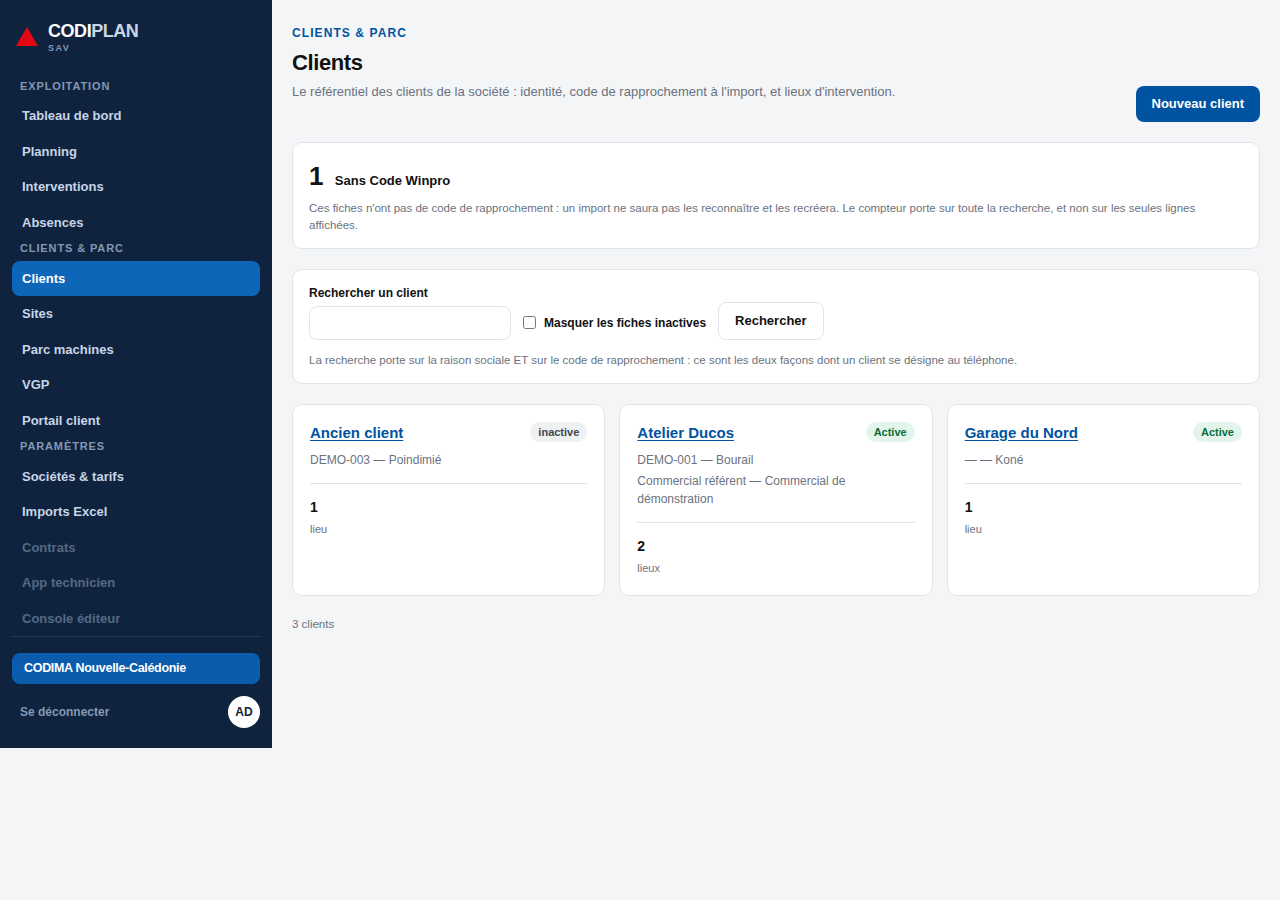
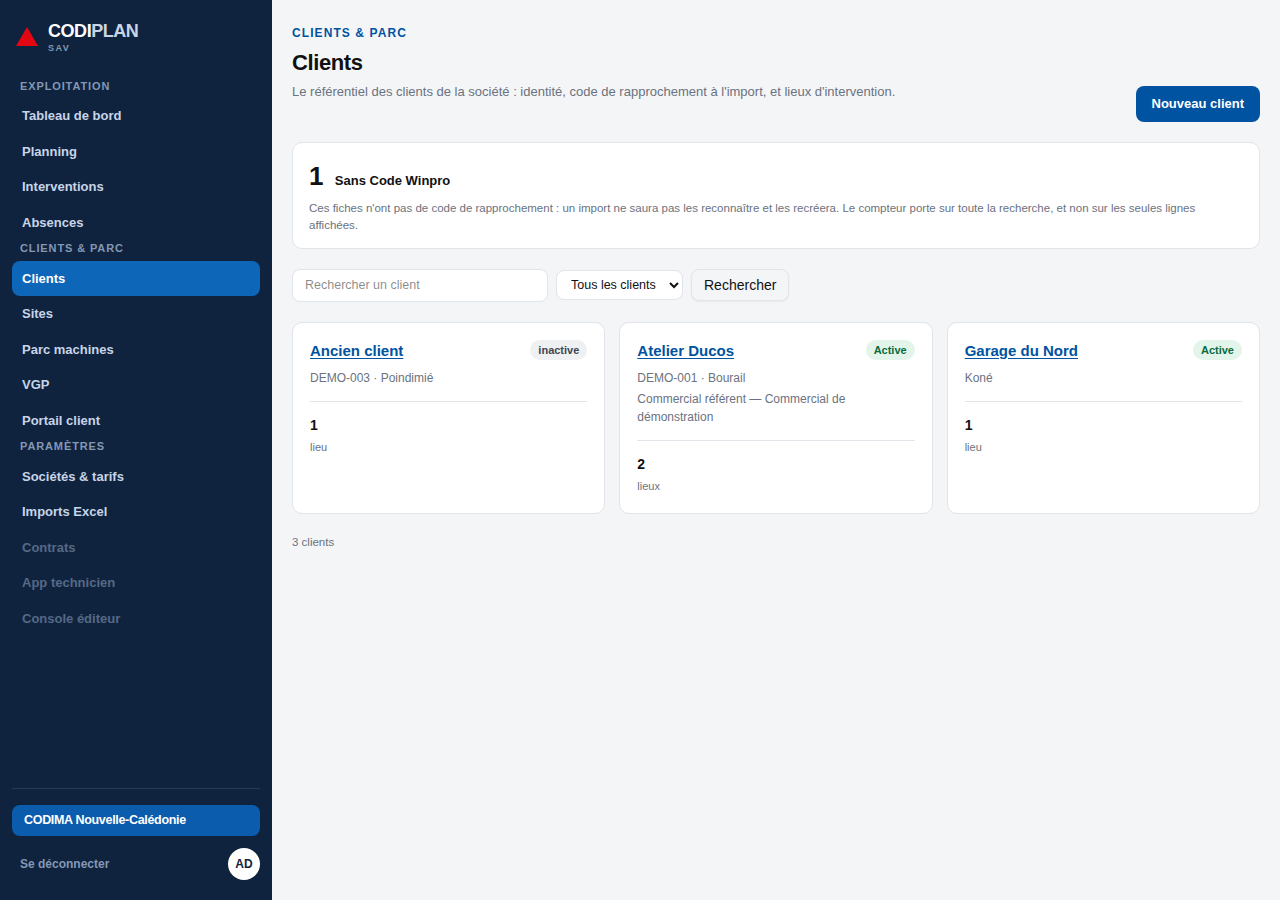
N-08 — trois défauts mesurés sur les captures, corrigés
Revue par Alexis sur les captures de N-08 (PR #227), chaque défaut mesuré
au pixel plutôt que ressenti :

1. La colonne latérale s'arrêtait à 747 px dans une fenêtre de 900 (mesuré
   sur clients--1280.png et tableau-de-bord--1280.png), laissant 153 px de
   fond de page sous elle. Cause : `h-full` sur l'<aside> résolvait un
   pourcentage contre un parent dont la hauteur n'a qu'un plancher
   (min-h-dvh), ce qui désactive au passage le align-items:stretch qui
   aurait suffi. Remplacé par `h-dvh` + `sticky top-0`, la forme exacte de
   `.sidebar` dans la maquette. Gardé par un scénario e2e sur un écran
   délibérément court (un écran long aurait masqué le défaut).

2. Un code de rapprochement absent affichait « — · Koné » sur la carte
   client : le tiret de l'absence suivi du séparateur, qui se lit comme
   une panne. La commune se suffit maintenant à elle-même quand le code
   manque. Le séparateur devient aussi le point médian mesuré sur la
   maquette (nouvelle clé ponctuation.point_median), plutôt que le tiret
   cadratin générique.

3. La barre d'outils de /clients redevient la LIGNE de la maquette :
   BarreDeFiltres (câblée par AT-04, jamais utilisée depuis) plutôt qu'un
   encadré à label empilé, case à cocher et paragraphe d'aide. Le filtre
   d'état devient un <select> à trois valeurs réelles — tous / actifs /
   inactifs — au lieu d'une case qui ne pouvait que masquer les inactifs.
   AT-07 inchangé : mêmes fonctions de dépôt, mêmes totaux, seul le nom du
[…]

diff --git a/app/(back-office)/clients/page.tsx b/app/(back-office)/clients/page.tsx
@@ -4,6 +4,7 @@ import { redirect } from "next/navigation";
 
 import { LienPrimaire } from "@/components/ui/action-primaire";
 import { Badge } from "@/components/ui/badge";
+import { BarreDeFiltres } from "@/components/ui/barre-de-filtres";
 import { CarteEntite, GrilleCartesEntites } from "@/components/ui/carte-entite";
 import { Page } from "@/components/mise-en-page/page";
 import { Pagination } from "@/components/ui/pagination";
@@ -131,7 +132,7 @@ export default async function PageClients({
   // taille d'une PAGE désormais, jamais celle d'un unique chargement (AT-07).
   const criteres = schemaRechercheClient.safeParse({
     texte: typeof params.q === "string" ? params.q : "",
-    actifs_seulement: params.actifs === "1",
+    etat: typeof params.etat === "string" ? params.etat : undefined,
     page: typeof params.page === "string" ? params.page : undefined,
   });
 
@@ -197,40 +198,34 @@ export default async function PageClients({
         </p>
       </section>
 
-      {/* La recherche est un FORMULAIRE `GET` : elle s'écrit dans l'URL, donc
-          elle se partage et se recharge. Aucun état client à tenir. */}
-      <form
-        method="get"
-        className="bg-app-surface border-app-bord flex flex-wrap items-end gap-3 rounded-[10px] border px-4 py-3.5"
-      >
-        <label className="flex flex-col gap-1 text-[12px] font-semibold">
-          {t("client.recherche")}
-          <input
-            type="search"
-            name="q"
-            defaultValue={typeof params.q === "string" ? params.q : ""}
-            className="border-app-bord rounded-md border px-3 py-1.5 text-[13px] font-normal"
-          />
-        </label>
-        <label className="flex items-center gap-2 pb-2 text-[12px] font-semibold">
-          <input
-            type="checkbox"
-            name="actifs"
-            value="1"
-            defaultChecked={params.actifs === "1"}
-          />
-          {t("clients.actifs_seulement")}
-        </label>
-        <button
-          type="submit"
-          className="border-app-bord rounded-md border px-4 py-2 text-[13px] font-bold"
-        >
-          {t("clients.rechercher")}
-        </button>
-        <p className="text-app-encre-faible w-full text-[11.5px]">
-          {t("clients.recherche.aide")}
-        </p>
-      </form>
+      {/* LA LIGNE de la maquette (N-08, D123) — un champ, un <select>, rien
+          d'autre. Formulaire GET : l'état vit dans l'URL, jamais dans un
+          composant. Le filtre d'état ferme sur TROIS valeurs réelles
+          (tous/actifs/inactifs), jamais une case qui ne fait que masquer. */}
+      <BarreDeFiltres
+        action="/clients"
+        parametre="q"
+        valeur={typeof params.q === "string" ? params.q : undefined}
+        libelleChamp={t("client.recherche")}
+        libelleBouton={t("clients.rechercher")}
+        enfants={
+          <>
+            <label className="sr-only" htmlFor="etat">
+              {t("clients.filtre.libelle")}
+            </label>
+            <select
+              id="etat"
+              name="etat"
+              defaultValue={criteres.success ? criteres.data.etat : "tous"}
+              className="border-app-bord bg-app-surface rounded-md border px-2.5 py-1.5 text-[12.5px]"
+            >
+              <option value="tous">{t("clients.filtre.tous")}</option>
+              <option value="actifs">{t("clients.filtre.actifs")}</option>
+              <option value="inactifs">{t("clients.filtre.inactifs")}</option>
+            </select>
+          </>
+        }
+      />
 
       {clients.length === 0 ? (
         <p className="text-app-encre-faible text-[13px]">
@@ -267,7 +262,10 @@ export default async function PageClients({
             "/clients",
             {
               q: typeof params.q === "string" ? params.q : undefined,
-              actifs: params.actifs === "1" ? "1" : undefined,
+              etat:
+                typeof params.etat === "string" && params.etat !== "tous"
+                  ? params.etat
+                  : undefined,
             },
             page,
           )

diff --git a/lib/i18n/fr.ts b/lib/i18n/fr.ts
@@ -295,9 +295,17 @@ export const fr = {
     "Le r\u00e9f\u00e9rentiel des clients de la soci\u00e9t\u00e9\u00a0: identit\u00e9, code de rapprochement \u00e0 l'import, et lieux d'intervention.",
   "clients.creer": "Nouveau client",
   "clients.rechercher": "Rechercher",
-  "clients.recherche.aide":
-    "La recherche porte sur la raison sociale ET sur le code de rapprochement\u00a0: ce sont les deux fa\u00e7ons dont un client se d\u00e9signe au t\u00e9l\u00e9phone.",
-  "clients.actifs_seulement": "Masquer les fiches inactives",
+  // LE FILTRE D'ÉTAT — un <select>, jamais plus une case à cocher (N-08,
+  // 18/09/2026). Mesuré sur `clients()` de
+  // `docs/maquette/codiplan-maquette-complete.html` : « Tous les clients /
+  // Actifs / À compléter ». Le troisième état de la maquette ferme sur une
+  // notion que le chapitre 10 ne porte pas ; le nôtre ferme sur `inactifs`,
+  // qui EXISTE déjà (`client.actif`) plutôt que de rester une case qu'on ne
+  // peut que masquer. **Bloc contigu pour ce ticket, comme l'exige le §5.**
+  "clients.filtre.libelle": "Filtrer par état",
+  "clients.filtre.tous": "Tous les clients",
+  "clients.filtre.actifs": "Actifs",
+  "clients.filtre.inactifs": "Inactifs",
   "clients.inactif": "inactive",
   "clients.retour": "\u2190 Tous les clients",
   // LE SEUL COMPTEUR, et il nomme un geste. Les trois autres qu'une maquette
@@ -813,6 +821,15 @@ export const fr = {
   // d'après son premier appelant devient fausse au second*, et la pente
   // suivante est d'en écrire une deuxième qui dit la même chose.
   "ponctuation.separateur": " — ",
+  // LE POINT MÉDIAN — mesuré dans `docs/maquette/codiplan-maquette-complete.html`
+  // (N-08, 18/09/2026) : « CLI-000184 · Nouméa », jamais un tiret cadratin.
+  // **Ce n'est pas le même signe que `ponctuation.separateur` pour la même
+  // raison** : la maquette réserve le point médian au couple identifiant ·
+  // lieu (`entity-card`), et garde le tiret pour un couple label — valeur
+  // ailleurs. Deux relations, deux signes mesurés séparément — les confondre
+  // sous une seule clé ferait dire à l'une ce qu'elle n'a jamais montré pour
+  // l'autre.
+  "ponctuation.point_median": " · ",
   // ── LE TRAJET ENTRE DANS LA FORMULE (L3-05a, D107, RG-PLA-05) ───────────
   //
   // La formule nommait DEUX termes quand le numérateur en porte désormais deux

diff --git a/tests/e2e/ecrans-largeur-utile.spec.ts b/tests/e2e/ecrans-largeur-utile.spec.ts
@@ -240,3 +240,46 @@ test("le parc machines rend des lignes, et la barre l'allume", async ({
     barre.getByText(fr["nav.parc_machines"], { exact: true }),
   ).toHaveCount(1);
 });
+
+test("la colonne latérale descend jusqu'en bas de la fenêtre, même sur un écran COURT", async ({
+  page,
+}) => {
+  // N-08, 18/09/2026 — mesuré sur les captures du ticket, jamais ressenti :
+  // fenêtre 1280 × 900, la colonne (`<aside>`) s'arrêtait à 747 px, laissant
+  // 153 px de fond de page sous elle. Cause : `h-full` sur l'`<aside>`
+  // résolvait un pourcentage contre son parent flex, dont la hauteur n'a
+  // qu'un PLANCHER (`min-h-dvh`, jamais `height`) — un pourcentage contre une
+  // hauteur `auto` ne résout à rien, et `height:100%` désactive au passage le
+  // `align-items:stretch` qui aurait sinon suffi. Voir
+  // `components/navigation/barre.tsx` pour le correctif (`h-dvh` + `sticky
+  // top-0`, la forme exacte de `.sidebar` dans
+  // `docs/maquette/codiplan-maquette-complete.html`).
+  //
+  // `/absences` est délibérément COURT : un écran dont le contenu dépasse
+  // 900 px étirerait la colonne par accident, et le défaut resterait masqué
+  // — c'est exactement la « population auto-sélectionnée » que ce scénario
+  // évite en le disant.
+  //
+  // La session est déjà ouverte par le `beforeEach` du fichier — l'y ouvrir
+  // une seconde fois viserait `/connexion` sur un compte déjà authentifié,
+  // qui redirige ailleurs et ne montre plus le formulaire (mesuré : c'est
+  // exactement ce qui a fait échouer ce scénario à l'écriture).
+  await page.setViewportSize({ width: 1280, height: 900 });
+  await page.goto("/absences");
+
+  const colonne = page.locator("aside").first();
+  await expect(colonne).toBeVisible();
+
+  // Le témoin : la page est bien COURTE, sans quoi la mesure ci-dessous ne
+  // prouverait rien de ce qu'elle prétend.
+  const hauteurDocument = await page.evaluate(() => document.body.scrollHeight);
+  expect(
+    hauteurDocument,
+    "/absences n'est plus un écran court",
+  ).toBeLessThanOrEqual(900);
+
+  const hauteurColonne = await colonne.evaluate(
+    (element) => element.getBoundingClientRect().height,
+  );
+  expect(Math.round(hauteurColonne)).toBe(900);
+});

diff --git a/tests/unit/clients/presentation-ecran.test.ts b/tests/unit/clients/presentation-ecran.test.ts
@@ -48,17 +48,18 @@ describe("le titre du compteur ne nomme l'ERP de personne", () => {
 });
 
 describe("la première ligne de la carte — code et commune (D123)", () => {
-  it("ÉCRIT l'absence de code plutôt que de laisser une case vide", () => {
+  it("ÉCRIT l'absence des DEUX plutôt que de laisser une case vide", () => {
     expect(codeEtCommune(null, undefined)).toBe("—");
+    expect(codeEtCommune(null, { nombre: 0, communes: [] })).toBe("—");
   });
 
-  it("nomme une seule commune — la première, jamais la liste", () => {
+  it("nomme une seule commune — la première, jamais la liste — au POINT MÉDIAN", () => {
     expect(
       codeEtCommune("CLI-000184", {
         nombre: 2,
         communes: ["Nouméa", "Ducos"],
       }),
-    ).toBe(`CLI-000184${t("ponctuation.separateur")}Nouméa`);
+    ).toBe(`CLI-000184${t("ponctuation.point_median")}Nouméa`);
   });
 
   it("rend le code seul quand aucune commune n'est connue", () => {
@@ -68,6 +69,15 @@ describe("la première ligne de la carte — code et commune (D123)", () => {
       "CLI-000184",
     );
     expect(codeEtCommune("CLI-000184", undefined)).toBe("CLI-000184");
+  });
+
+  it("LE CAS QUI DOIT ROUGIR SANS LE CORRECTIF : un code absent rend la commune SEULE, jamais « — · Koné »", () => {
+    // *Mesuré à l'écran le 18/09/2026 (« Garage du Nord ») : un séparateur
+    // suivait le tiret d'un code manquant, et se lisait comme une panne.*
+    const rendu = codeEtCommune(null, { nombre: 1, communes: ["Koné"] });
+    expect(rendu).toBe("Koné");
+    expect(rendu).not.toContain("—");
+    expect(rendu).not.toContain(t("ponctuation.point_median").trim());
   });
 });
 

diff --git a/app/(back-office)/clients/presentation.ts b/app/(back-office)/clients/presentation.ts
@@ -31,7 +31,17 @@ export function titreSansCode(
 
 /**
  * LA PREMIÈRE LIGNE DE LA CARTE — le code de rapprochement, puis la commune
- * (D123, N-08) : le pendant de « CLI-000184 · Nouméa » sur `entity-card`.
+ * (D123, N-08) : le pendant de « CLI-000184 · Nouméa » sur `entity-card`, au
+ * POINT MÉDIAN mesuré sur cette carte — jamais le tiret cadratin générique
+ * de `ponctuation.separateur` (voir sa propre note dans `lib/i18n/fr.ts`).
+ *
+ * **Un code ABSENT ne laisse jamais un séparateur orphelin.** *Mesuré à
+ * l'écran le 18/09/2026* : `codeEtCommune(null, {communes:["Koné"], …})`
+ * rendait `— · Koné` — le tiret de `ouTiret(null)` suivi du point médian,
+ * qui se lit comme une panne d'affichage plutôt que comme une absence. La
+ * commune, quand elle existe, se suffit alors à elle-même ; le tiret ne
+ * paraît que si LES DEUX manquent — c'est la seule ligne qui aurait sinon
+ * disparu complètement.
  *
  * **Une seule commune**, jamais la liste : `sitesParClient` les rend déjà
  * TRIÉES, et la bande de compteurs de la carte dit combien de lieux existent
@@ -43,11 +53,13 @@ export function codeEtCommune(
   codeExterne: string | null,
   sites: SitesDUnClient | undefined,
 ): string {
-  const code = ouTiret(codeExterne);
   const commune = sites?.communes[0];
+  if (codeExterne === null) {
+    return commune ?? ouTiret(null);
+  }
   return commune === undefined
-    ? code
-    : `${code}${t("ponctuation.separateur")}${commune}`;
+    ? codeExterne
+    : `${codeExterne}${t("ponctuation.point_median")}${commune}`;
 }
 
 /**

diff --git a/components/navigation/barre.tsx b/components/navigation/barre.tsx
@@ -127,7 +127,20 @@ export function BarreDeNavigation({
   }
 
   return (
-    <aside className="bg-app-chrome-fond flex h-full w-[272px] shrink-0 flex-col overflow-y-auto px-3 py-5">
+    // `h-dvh` + `sticky top-0`, PAS `h-full` (N-08, 18/09/2026) — mesuré sur
+    // les captures de N-08 : la colonne s'arrêtait à 747 px dans une fenêtre
+    // de 900, laissant 153 px de fond de page sous elle, sur un écran à
+    // contenu COURT (un écran long masquait le défaut). `h-full` résout un
+    // pourcentage contre le parent flex, dont la hauteur n'a qu'un PLANCHER
+    // (`min-h-dvh`, jamais `height`) — un pourcentage contre une hauteur
+    // `auto` ne résout à rien, et `height:100%` désactive au passage le
+    // `align-items:stretch` du parent qui aurait sinon suffi. `h-dvh` fixe
+    // une hauteur absolue, indépendante du parent ; `sticky top-0` reprend
+    // `.sidebar{position:sticky;top:0;height:100vh}` de
+    // `docs/maquette/codiplan-maquette-complete.html`, la même source que
+    // D121 pour la FORME de cette colonne — et le même geste que le
+    // `<header>` du terrain, juste en dessous, applique déjà pour lui-même.
+    <aside className="bg-app-chrome-fond sticky top-0 flex h-dvh w-[272px] shrink-0 flex-col overflow-y-auto px-3 py-5">
       <Marque accueil={accueil} />
       <nav aria-label={t("nav.libelle")} className="mt-2 flex flex-col">
         {entrees.map((entree) =>

diff --git a/lib/clients/saisie.ts b/lib/clients/saisie.ts
@@ -146,6 +146,14 @@ export const LIMITE_RECHERCHE_MAXIMALE = 200;
  * `texte` cherche à la fois dans la raison sociale et dans le code externe :
  * ce sont les deux façons dont l'ADV désigne un client au téléphone, et ce sont
  * les deux clés de rapprochement de RG-IMP-05.
+ *
+ * `etat` REMPLACE `actifs_seulement` (N-08, 18/09/2026) — la case à cocher
+ * « Masquer les fiches inactives » devient le `<select>` mesuré sur
+ * `clients()` de `docs/maquette/codiplan-maquette-complete.html`
+ * (« Tous les clients / Actifs / À compléter »). La maquette ferme son
+ * troisième état sur une notion que le chapitre 10 ne porte pas ; le nôtre
+ * ferme sur `inactifs`, qui existe déjà (`client.actif`) — une TROISIÈME
+ * valeur RÉELLE, jamais un état de plus qui n'affiche rien.
  */
 export const schemaRechercheClient = z
   .object({
@@ -155,7 +163,7 @@ export const schemaRechercheClient = z
       .transform((valeur) => (valeur.length === 0 ? null : valeur))
       .nullable()
       .default(null),
-    actifs_seulement: z.boolean().default(false),
+    etat: z.enum(["tous", "actifs", "inactifs"]).default("tous"),
     limite: z
       .number()
       .int()

diff --git a/tests/unit/clients/saisie.test.ts b/tests/unit/clients/saisie.test.ts
@@ -169,9 +169,23 @@ describe("saisie d'une fiche client (L1-01)", () => {
     it("cherche tout, sans critère", () => {
       const analyse = schemaRechercheClient.parse({});
       expect(analyse.texte).toBeNull();
-      expect(analyse.actifs_seulement).toBe(false);
+      expect(analyse.etat).toBe("tous");
       expect(analyse.limite).toBe(LIMITE_RECHERCHE_PAR_DEFAUT);
       expect(analyse.page).toBe(1);
+    });
+
+    it("REFUSE un état hors de la liste close — N-08", () => {
+      // Trois états mesurés sur `clients()` de la maquette, ni plus ni moins :
+      // un quatrième ne compilerait sur aucun `<select>` réel.
+      expect(schemaRechercheClient.safeParse({ etat: "actifs" }).success).toBe(
+        true,
+      );
+      expect(
+        schemaRechercheClient.safeParse({ etat: "inactifs" }).success,
+      ).toBe(true);
+      expect(
+        schemaRechercheClient.safeParse({ etat: "archives" }).success,
+      ).toBe(false);
     });
 
     it("accepte une page au-delà de la première, et refuse une page absurde (AT-07)", () => {

diff --git a/lib/clients/depot.ts b/lib/clients/depot.ts
@@ -326,9 +326,12 @@ function filtreDeRecherche(criteres: RechercheClient): Prisma.ClientWhereInput {
           ],
         };
 
+  const filtreEtat: Prisma.ClientWhereInput =
+    criteres.etat === "tous" ? {} : { actif: criteres.etat === "actifs" };
+
   return {
     ...filtreTexte,
-    ...(criteres.actifs_seulement ? { actif: true } : {}),
+    ...filtreEtat,
   };
 }
 
